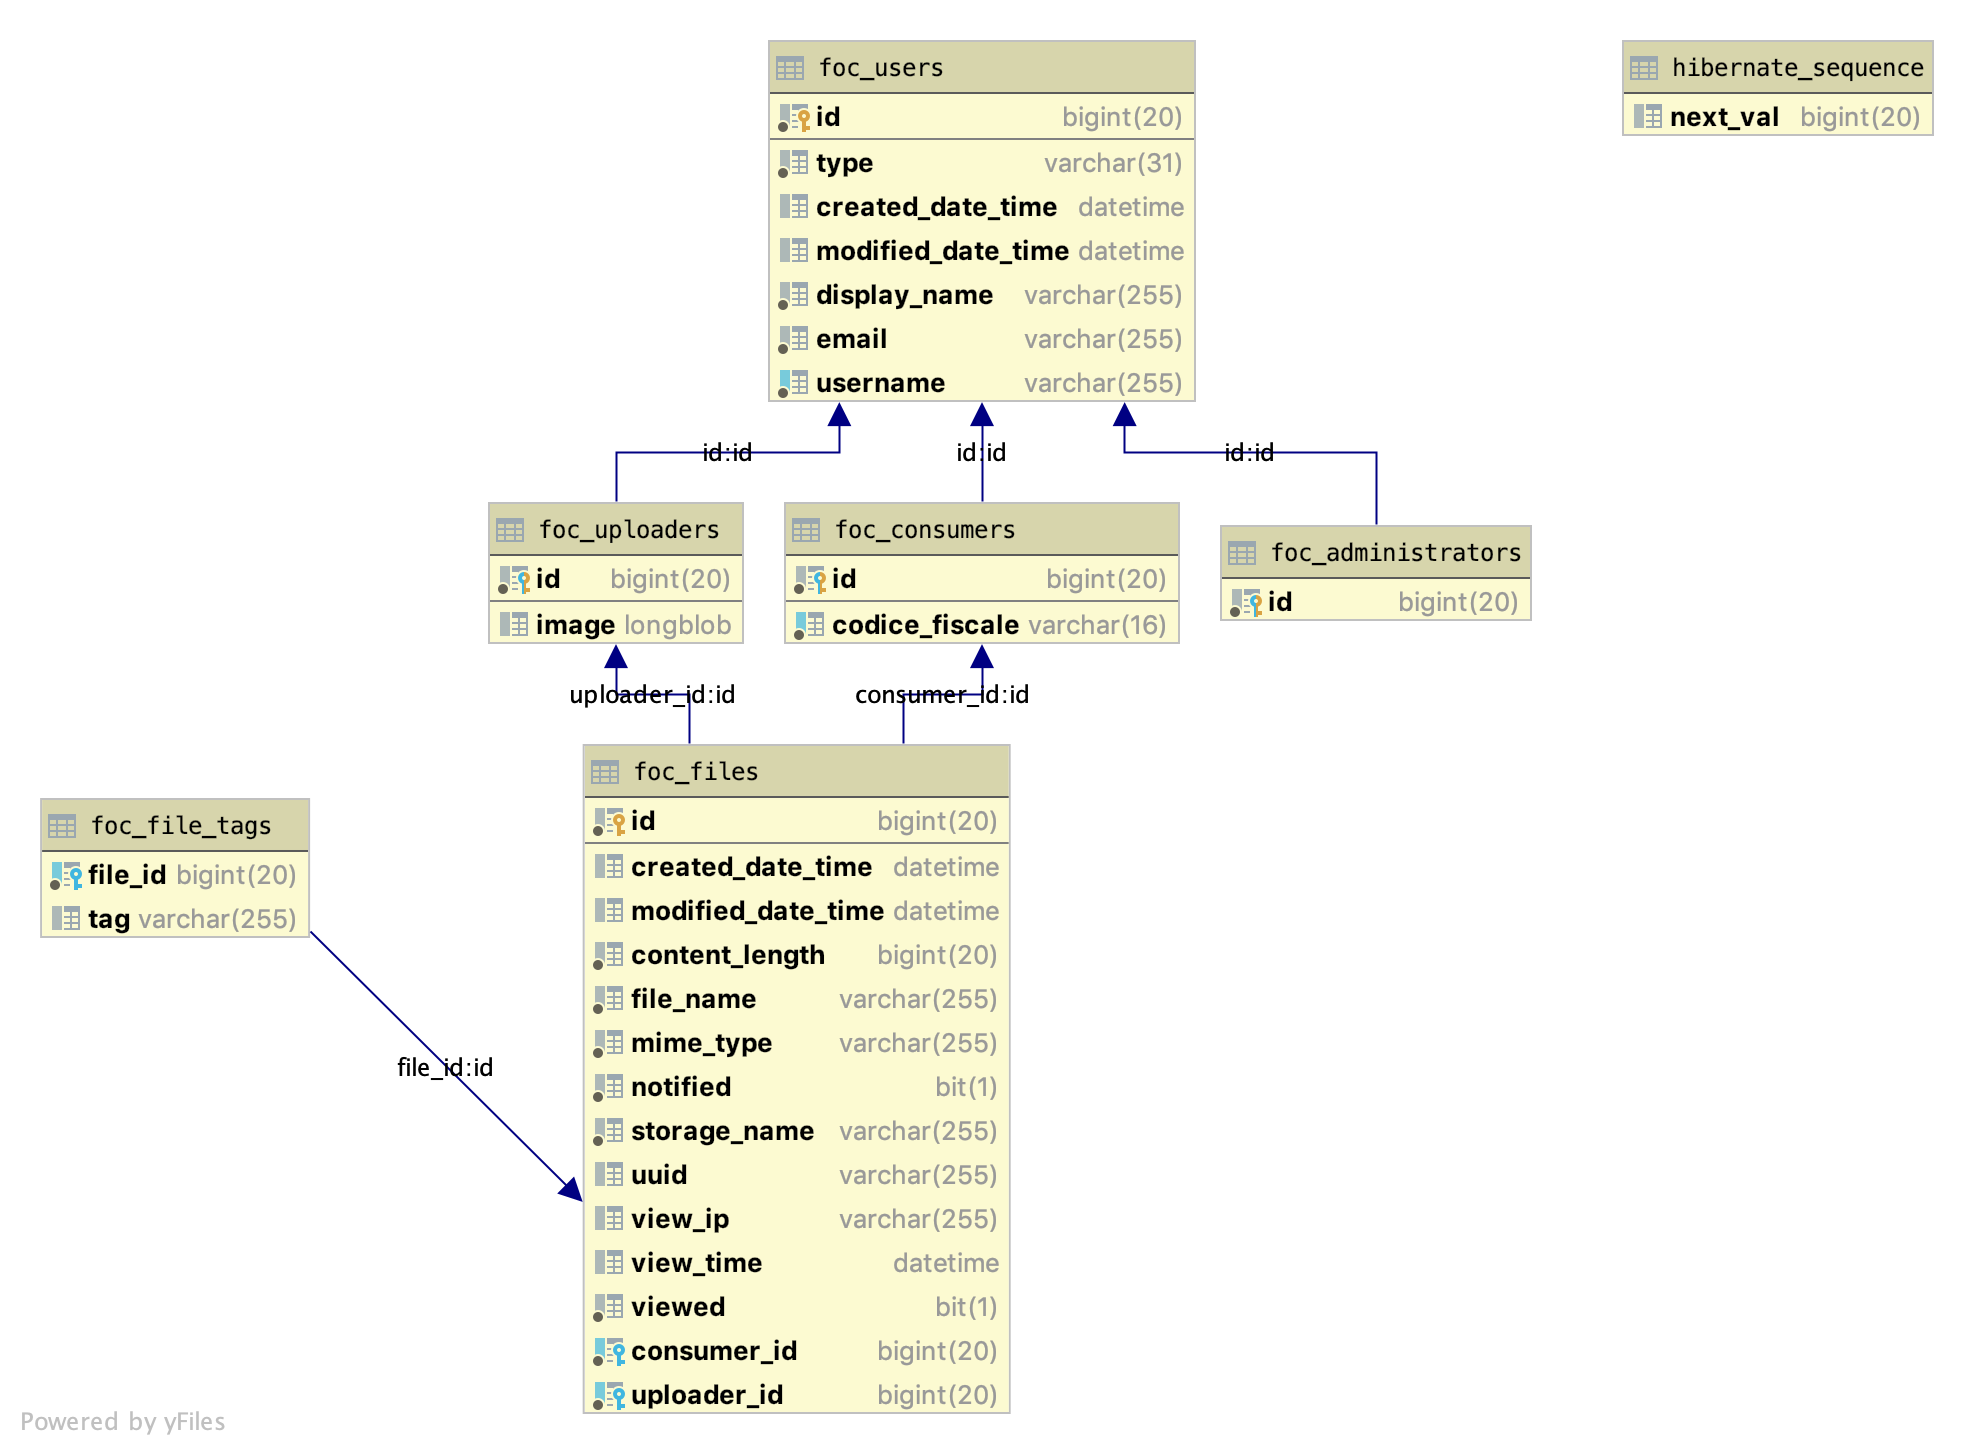
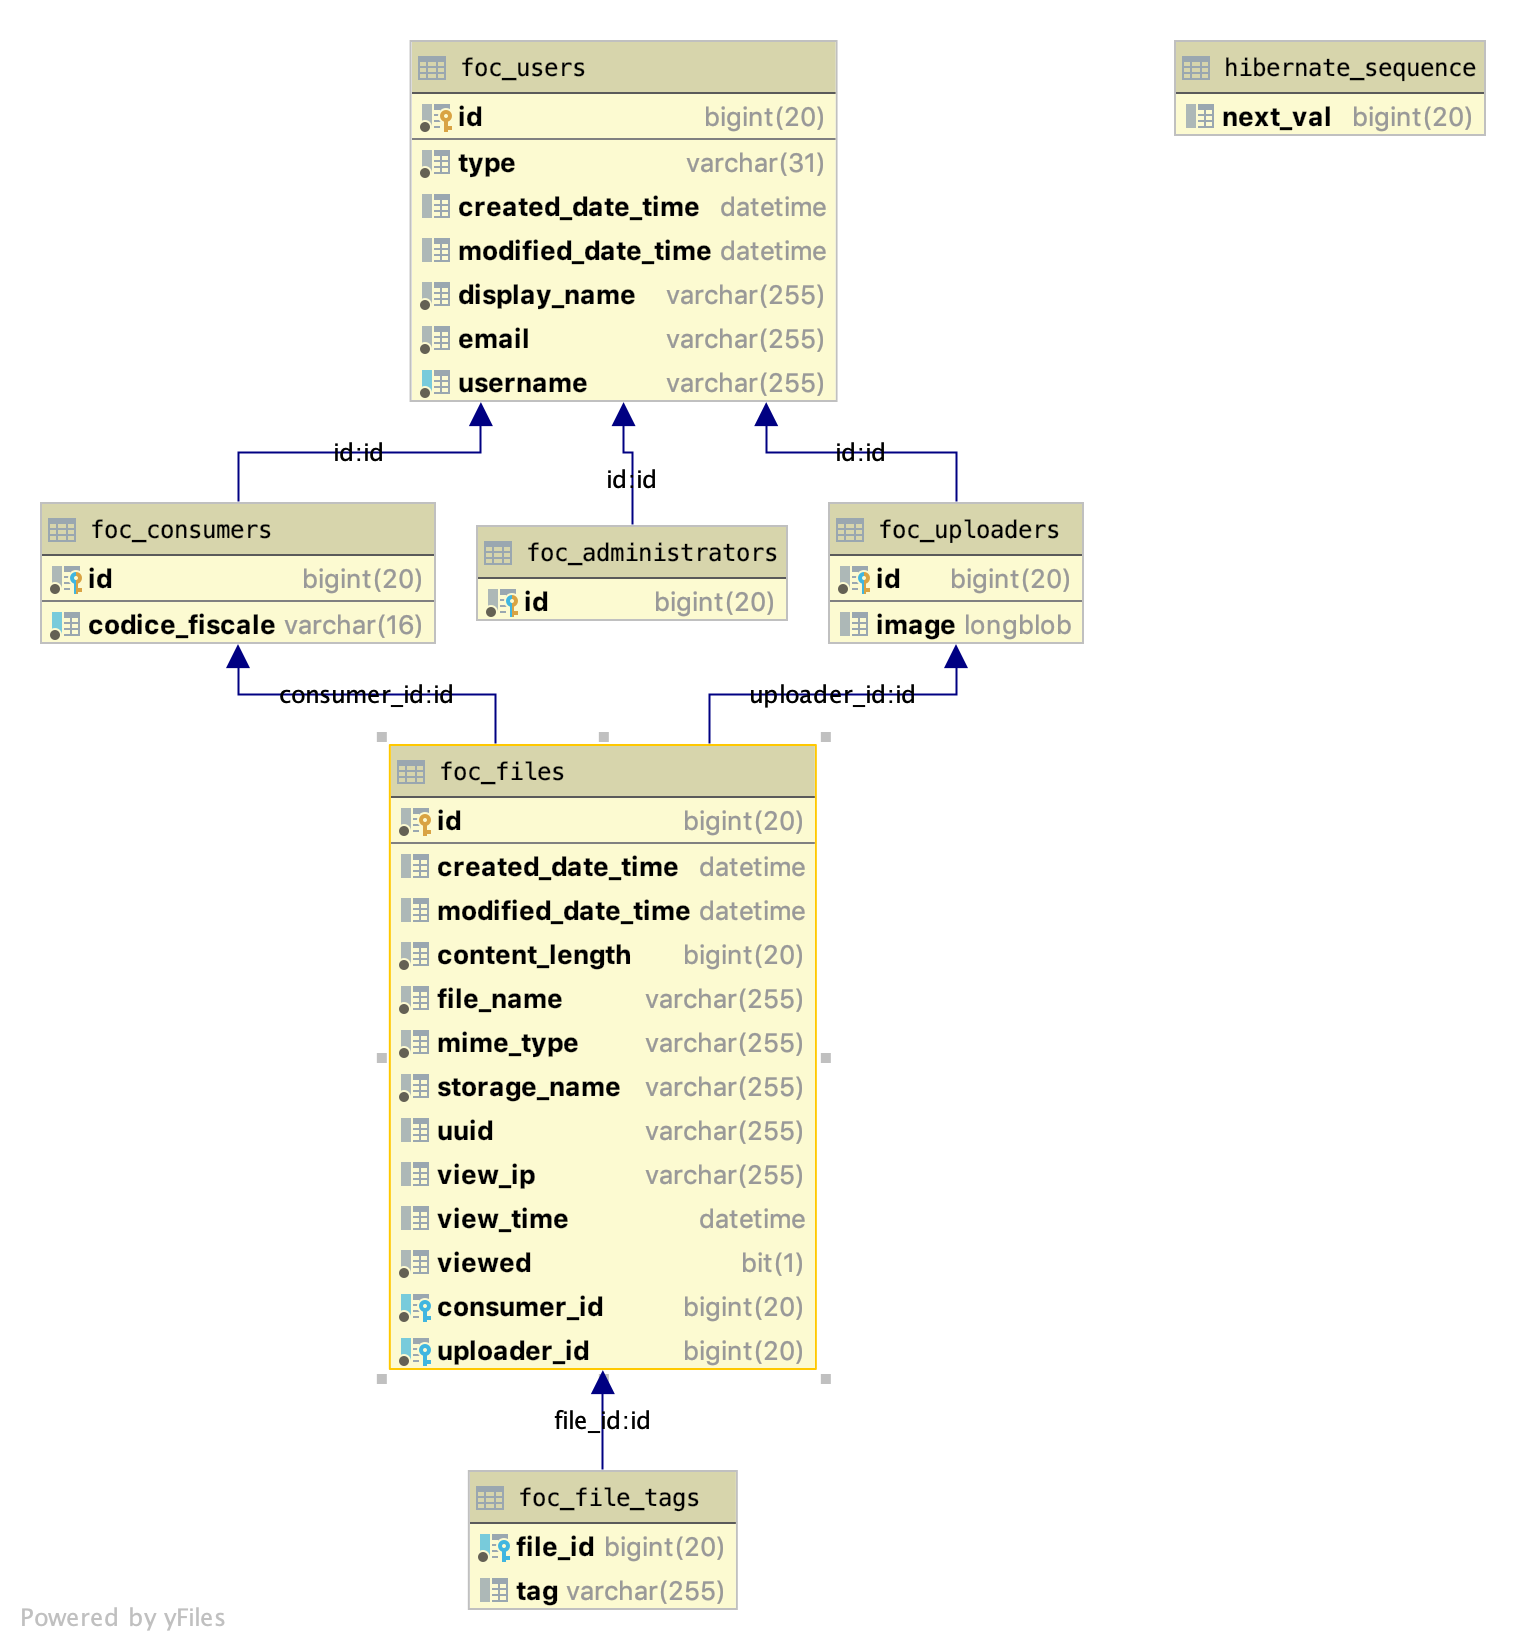
@wip

diff --git a/src/main/ngapp/src/app/types/files.ts b/src/main/ngapp/src/app/types/files.ts
@@ -7,7 +7,6 @@ export interface CloudFile {
   contentLength: number;
   fileName: string;
   mimeType: string;
-  notified: boolean;
   uploader: Uploader;
   uuid: string;
 

diff --git a/src/main/java/org/abubusoft/foc/web/support/WtoMapper.java b/src/main/java/org/abubusoft/foc/web/support/WtoMapper.java
@@ -40,7 +40,6 @@ public interface WtoMapper {
 		
 		result.setUuid(value.getUuid());
 		result.setCreationTime(value.getCreatedDateTime());
-		result.setNotified(value.isNotified());
 		
 		result.setViewIp(value.getViewIp());
 		result.setViewTime(value.getViewTime());
@@ -73,7 +72,6 @@ public interface WtoMapper {
 		result.setUploader(uploader);
 		
 		result.setCreatedDateTime(creationTime);
-		result.setNotified(false);
 		
 		result.setViewIp(null);
 		result.setViewTime(null);
@@ -95,7 +93,6 @@ public interface WtoMapper {
 		result.setUuid(value.getUuid());
 		
 		result.setCreatedDateTime(value.getCreationTime());
-		result.setNotified(value.isNotified());
 		
 		result.setViewIp(value.getViewIp());
 		result.setViewTime(value.getViewTime());

diff --git a/src/main/java/org/abubusoft/foc/web/model/CloudFileWto.java b/src/main/java/org/abubusoft/foc/web/model/CloudFileWto.java
@@ -16,8 +16,6 @@ public class CloudFileWto extends CloudFileInfoWto {
 
 	protected String mimeType;
 
-	protected boolean notified;
-
 	protected UploaderWto uploader;
 
 	protected String uuid;
@@ -57,10 +55,6 @@ public class CloudFileWto extends CloudFileInfoWto {
 		return viewTime;
 	}
 
-	public boolean isNotified() {
-		return notified;
-	}
-
 	public void setContentLength(long contentLength) {
 		this.contentLength = contentLength;
 	}
@@ -71,10 +65,6 @@ public class CloudFileWto extends CloudFileInfoWto {
 
 	public void setMimeType(String mimeType) {
 		this.mimeType = mimeType;
-	}
-
-	public void setNotified(boolean notified) {
-		this.notified = notified;
 	}
 
 	public void setUploader(UploaderWto uploader) {

diff --git a/src/main/java/org/abubusoft/foc/repositories/model/CloudFile.java b/src/main/java/org/abubusoft/foc/repositories/model/CloudFile.java
@@ -36,8 +36,6 @@ public class CloudFile extends AbstractEntity {
 	@Column(nullable = false)
 	protected String mimeType;
 
-	protected boolean notified;
-
 	@Column(nullable = false)
 	protected String storageName;
 
@@ -104,10 +102,6 @@ public class CloudFile extends AbstractEntity {
 		return viewIp;
 	}
 
-	public boolean isNotified() {
-		return notified;
-	}
-
 	public boolean isViewed() {
 		return viewed;
 	}
@@ -126,10 +120,6 @@ public class CloudFile extends AbstractEntity {
 
 	public void setMimeType(String mimeType) {
 		this.mimeType = mimeType;
-	}
-
-	public void setNotified(boolean notified) {
-		this.notified = notified;
 	}
 
 	public void setStorageName(String storageName) {
